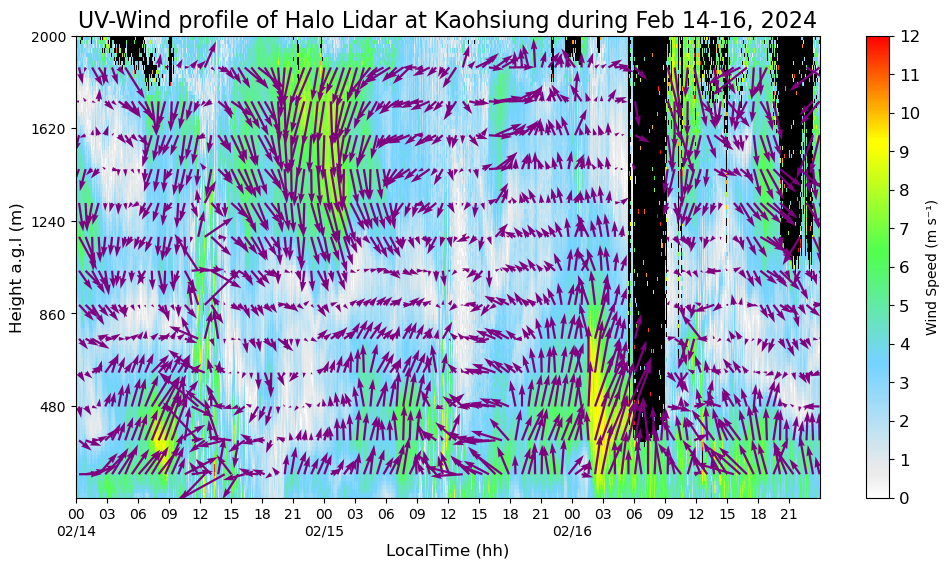
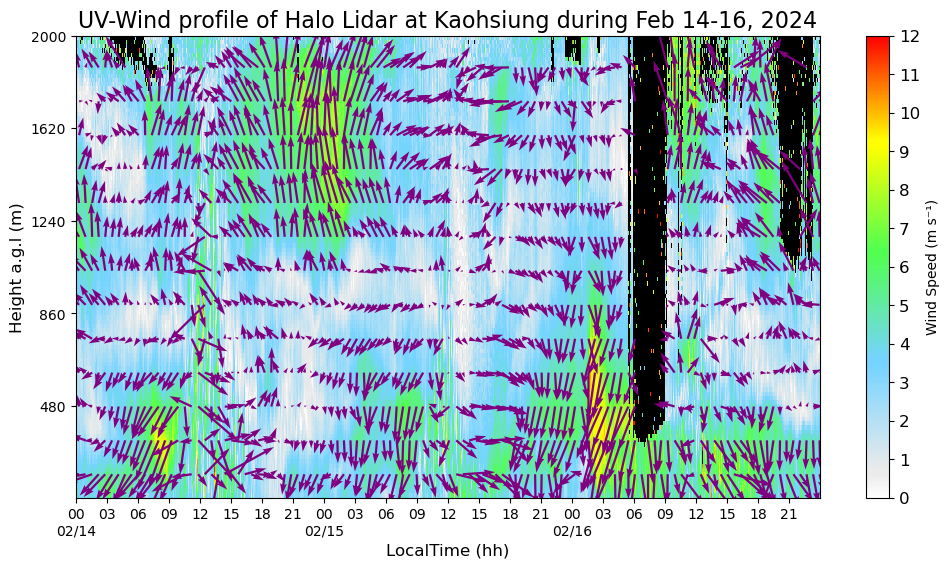
update

Changed region(s): [[0.0611, 0.0599, 0.8862, 0.8979]]

diff --git a/try.py b/try.py
@@ -155,7 +155,7 @@ def draw(dataset, start_time, end_time, start_height, end_height):
                 v = datetime_height_data['wind_speed'] * np.cos(np.radians(datetime_height_data['wind_direction']))
         
                 # Draw the vector field for wind direction and wind speed
-                plt.quiver(datetime_height_data['datetime'], datetime_height_data['height'], u, v, color='purple', scale=120, width=0.003)
+                plt.quiver(datetime_height_data['datetime'], datetime_height_data['height'], -u, -v, color='purple', scale=120, width=0.003)
 
     # Title
     start_date_str = start_time.strftime('%d')
